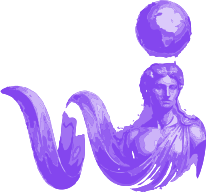
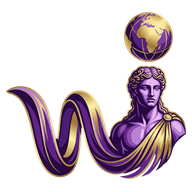
the new mark everywhere, and a loader that fills instead of revealing
Every icon in `assets/images` is regenerated from the two masters at the
workspace root (`brand/wiez-mark.png`, `brand/wiez-wordmark.png`) by
`scripts/build-brand-assets.py`. These are OUTPUTS now — change a master and
re-run rather than editing one.

Two of them have constraints worth keeping straight. `wiez-icon.png` carries
its own dark ground because iOS refuses a transparent app icon.
`wiez-adaptive-icon.png` fills only 60% of its canvas because Android crops an
adaptive foreground to a circle or a squircle and keeps roughly the middle
two-thirds — anything larger loses its edges.

The loader had the right mechanism and the wrong content. A track and a
bottom-anchored window is exactly how a level should work, but both layers
showed the full-colour ARTWORK, so what a reader saw was a dim logo being
uncovered in strips — the progressive-JPEG effect, which reads as a picture
downloading rather than as progress.

Both layers are tinted with the system colour now. That throws the artwork away
and keeps only its silhouette, so the empty state is a shape holding nothing
rather than a broken logo, and empty and full are the same ink at two strengths
across a hard edge. The aspect ratio follows the new artwork (538x498).

diff --git a/components/ui/MuseLoader.tsx b/components/ui/MuseLoader.tsx
@@ -16,10 +16,18 @@ import { useTheme } from '@/src/theme/ThemeProvider';
 /**
  * The app's loading vocabulary. Every wait on native renders this.
  *
- * **The logo is the loader.** A dim copy of the mark is the track and a lit
- * copy fills from the bottom, so the thing that fills IS the brand — not a ring
- * orbiting one piece of it, and not the OS spinner, which is what 48 call sites
- * across 36 files were actually showing.
+ * **An empty vessel in the shape of the mark, filling with the system colour.**
+ * Like a phone charging while it is switched off: the outline of the thing, and
+ * a level rising inside it. Not a ring orbiting one piece of the logo, and not
+ * the OS spinner, which is what 48 call sites across 36 files were showing.
+ *
+ * Both layers are TINTED, which is the whole point. Painting the full-colour
+ * artwork and uncovering it bottom-up reads as a picture downloading over a
+ * slow connection — a dim logo is what a half-loaded image looks like, and
+ * revealing it in strips is the progressive-JPEG effect. Tinting throws the
+ * artwork away and keeps only its silhouette, so the empty state is a shape
+ * holding nothing rather than a broken logo, and empty and full are the same
+ * ink at two strengths across a hard edge.
  *
  * Driven on the UI thread, which matters more here than on web: a loader is on
  * screen precisely when JS is busy, and a JS-driven animation freezes at exactly
@@ -32,8 +40,8 @@ import { useTheme } from '@/src/theme/ThemeProvider';
  * takes the handle.
  */
 
-/** From the mark's own viewBox (461 x 430). */
-const MARK_ASPECT_RATIO = 461 / 430;
+/** From the mark's own artwork (538 x 498). */
+const MARK_ASPECT_RATIO = 538 / 498;
 
 const MARK_LIGHT = require('@/assets/images/wiez-loader-mark-light.png');
 const MARK_DARK = require('@/assets/images/wiez-loader-mark-dark.png');
@@ -50,7 +58,7 @@ type MuseLoaderProps = {
 };
 
 export function MuseLoader({ size = 32, style, label = 'Loading' }: MuseLoaderProps) {
-  const { scheme } = useTheme();
+  const { theme, scheme } = useTheme();
   const fill = useSharedValue(MIN_FILL);
   const reduceMotion = useReducedMotion();
 
@@ -88,15 +96,17 @@ export function MuseLoader({ size = 32, style, label = 'Loading' }: MuseLoaderPr
       accessibilityRole="progressbar"
       accessibilityLabel={label}
     >
+      {/* The empty vessel: the whole silhouette, holding nothing. */}
       <Image
         source={source}
         style={[StyleSheet.absoluteFill, styles.track]}
         contentFit="contain"
         cachePolicy="memory-disk"
         transition={0}
+        tintColor={theme.colors.primary}
       />
       {/* The window grows from the bottom; the mark inside it stays put, so the
-          artwork is revealed rather than moved. */}
+          level rises rather than the shape moving. */}
       <Animated.View style={[styles.window, fillStyle]}>
         <Image
           source={source}
@@ -104,6 +114,7 @@ export function MuseLoader({ size = 32, style, label = 'Loading' }: MuseLoaderPr
           contentFit="contain"
           cachePolicy="memory-disk"
           transition={0}
+          tintColor={theme.colors.primary}
         />
       </Animated.View>
     </View>
